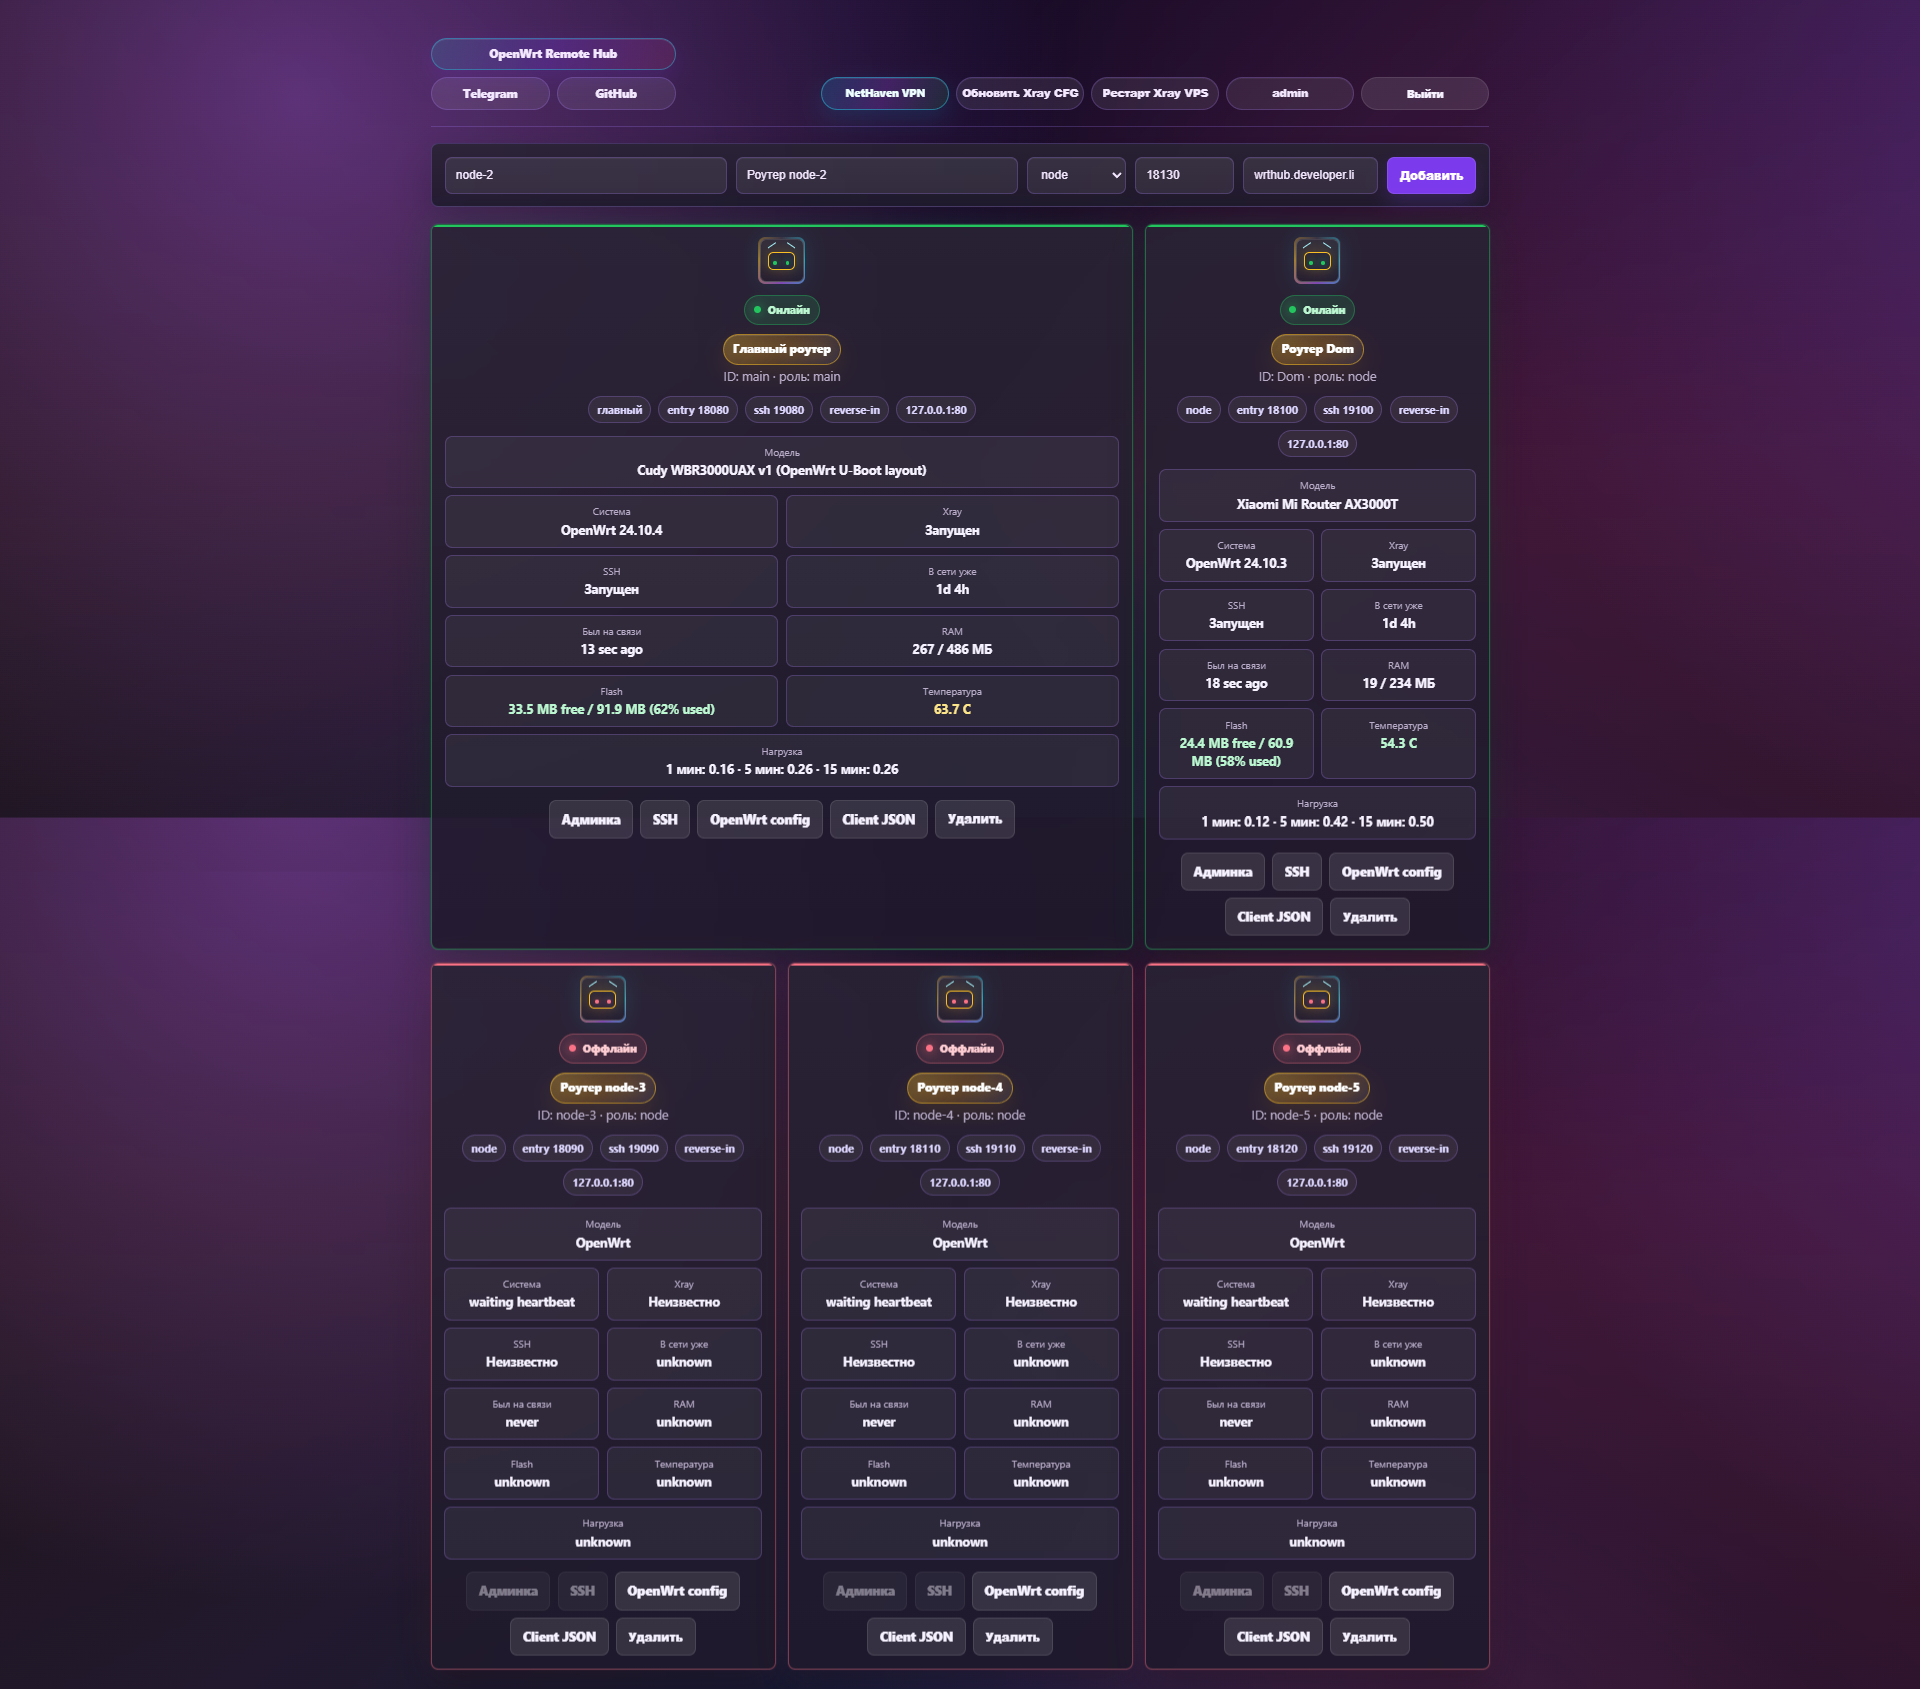
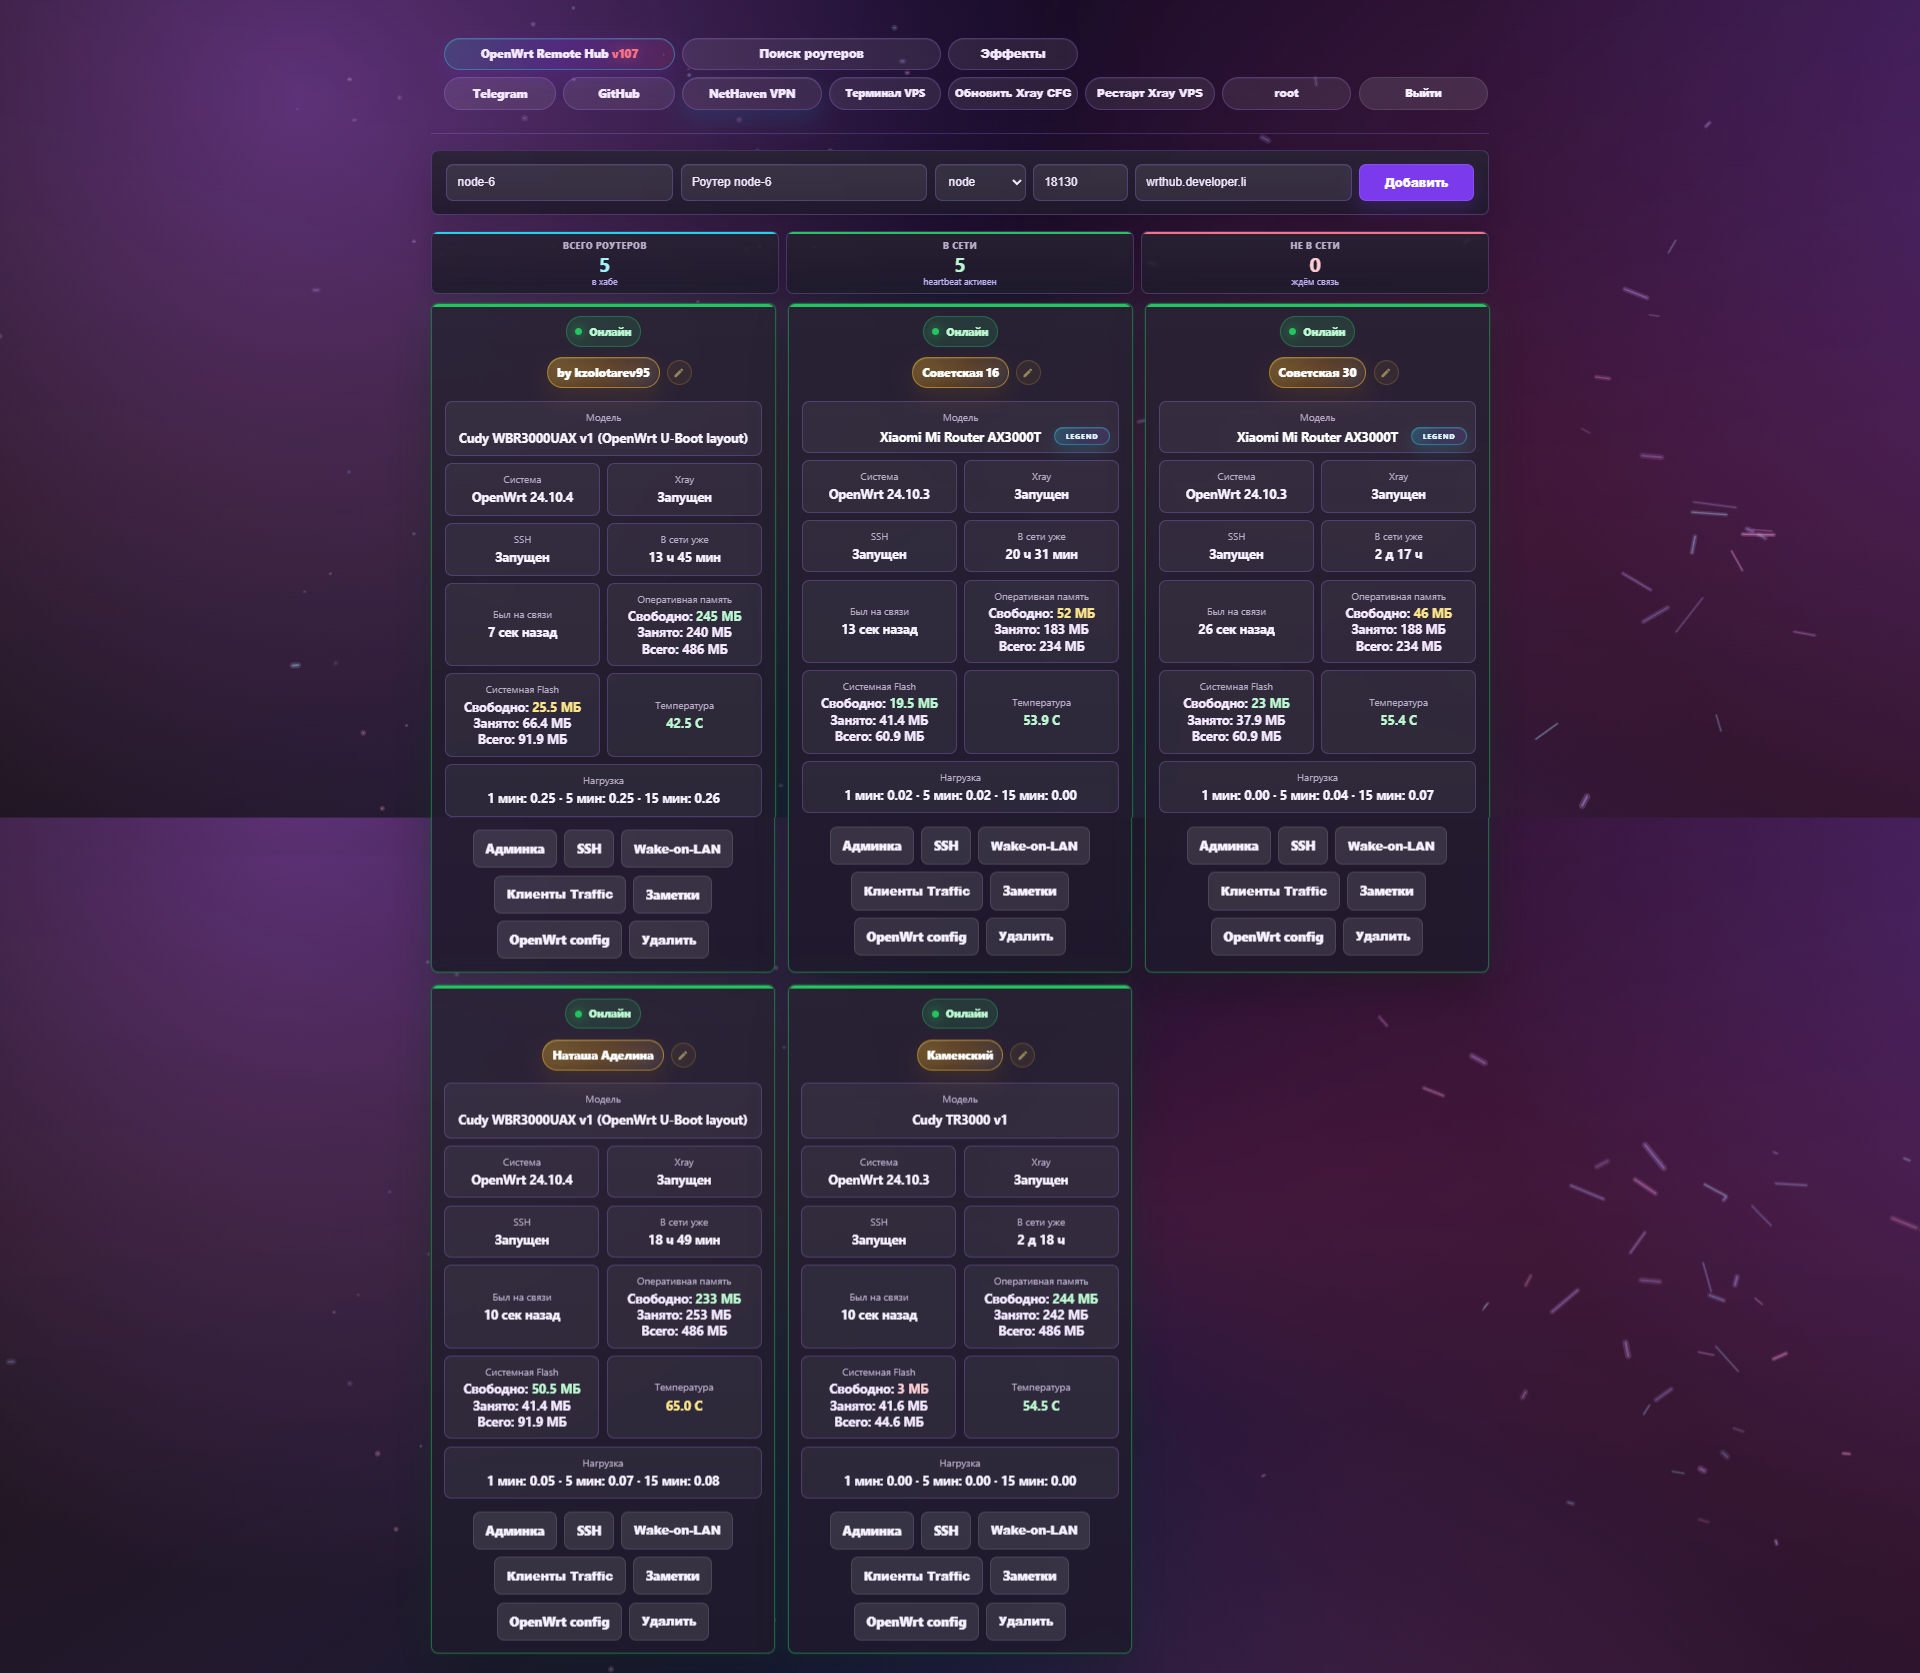
Update README screenshots

diff --git a/README.md b/README.md
@@ -238,34 +238,34 @@ flowchart LR
 </td>
 <td width="50%" align="center">
 
-<img src="assets/screenshots/access-settings.png" alt="Access settings and sessions" width="420" />
+<img src="assets/screenshots/access-settings.jpg" alt="Hub access and security settings" width="420" />
 
 <br>
-<b>Доступ и сессии</b>
+<b>Безопасность Hub</b>
 <br>
-<sub>Смена логина/пароля и управление активными сессиями.</sub>
+<sub>Пароль, 2FA, Passkey, SSH ED25519, привязанные сервисы, ограниченные пользователи и уведомления.</sub>
 
 </td>
 </tr>
 <tr>
 <td width="50%" align="center">
 
-<img src="assets/screenshots/router-settings.png" alt="OpenWrt router settings" width="100%" />
+<img src="assets/screenshots/traffic-clients.jpg" alt="Router traffic clients panel" width="360" />
 
 <br>
-<b>Настройки роутера</b>
+<b>Клиенты Traffic</b>
 <br>
-<sub>Router ID, Hub URL, токены, Xray, reverse tags и SSH параметры.</sub>
+<sub>Список клиентов роутера с SSH-опросом и счетчиками входящего/исходящего трафика прямо в Hub.</sub>
 
 </td>
 <td width="50%" align="center">
 
-<img src="assets/screenshots/ssh-web-terminal.jpg" alt="SSH web terminal" width="100%" />
+<img src="assets/screenshots/vps-terminal.jpg" alt="VPS web terminal" width="100%" />
 
 <br>
-<b>SSH Web Terminal</b>
+<b>VPS Terminal</b>
 <br>
-<sub>Терминал OpenWrt прямо в браузере, удобно даже с телефона.</sub>
+<sub>Веб-терминал VPS с быстрыми командами для обслуживания Hub, Xray, HTTPS и диагностики сервиса.</sub>
 
 </td>
 </tr>
